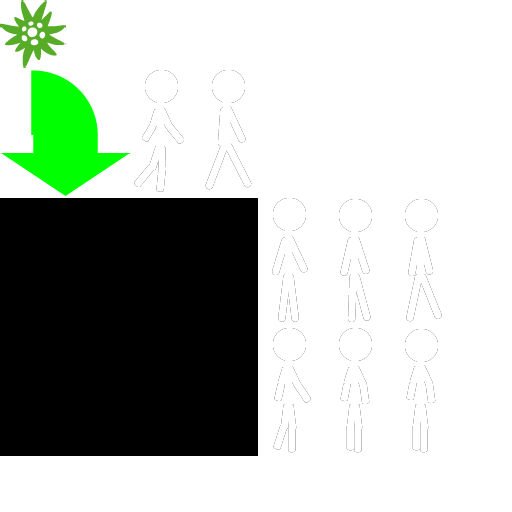
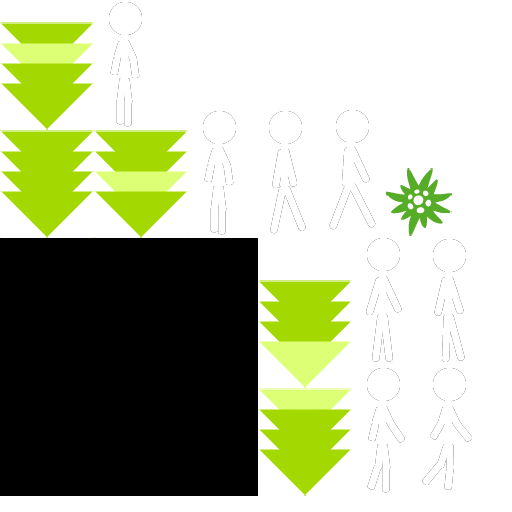
Animated decorations plus map tweaks

diff --git a/core/src/de/johannesbade/kletterhoelle/Dekoration.java b/core/src/de/johannesbade/kletterhoelle/Dekoration.java
@@ -1,21 +1,34 @@
 package de.johannesbade.kletterhoelle;
 
+import com.badlogic.gdx.graphics.g2d.Animation;
 import com.badlogic.gdx.graphics.g2d.Batch;
 import com.badlogic.gdx.graphics.g2d.Sprite;
+import com.badlogic.gdx.graphics.g2d.TextureAtlas.AtlasRegion;
 import com.badlogic.gdx.scenes.scene2d.Actor;
+import com.badlogic.gdx.utils.Array;
 
 public class Dekoration extends Actor {
 	
 	private Sprite sprite = null;
-	public Dekoration(GameContext context, String region, float x, float y) {
+	
+	private Animation animation = null;
+	private GameContext context;
+	
+	public Dekoration(GameContext context, String region, float x, float y, float animDelay) {
 		sprite = new Sprite(context.getAtlas().findRegion(region));
 		sprite.setPosition(x, y);
 		setPosition(x, y);
+		this.context = context;
+		Array<AtlasRegion> frames = context.getAtlas().findRegions(region);
+		animation = new Animation(animDelay, frames);
+		animation.setPlayMode(Animation.PlayMode.LOOP);
+		
 	}
 	
 	@Override
 	public void draw(Batch batch, float parentAlpha) {
 		super.draw(batch, parentAlpha);
+		sprite.setRegion(animation.getKeyFrame(context.getTimeElapsed()));
 		sprite.draw(batch);
 	}
 

diff --git a/core/src/de/johannesbade/kletterhoelle/KletterHoelle.java b/core/src/de/johannesbade/kletterhoelle/KletterHoelle.java
@@ -111,12 +111,12 @@ public class KletterHoelle extends ApplicationAdapter implements InputProcessor,
 		
 		//Zusaetzliche Plattformen
 		context.getStage().addActor(new Fenster(context,280, 766,200,820));
-		context.getStage().addActor(new MovingPlatform(context,680, 120,111,220,2, 1));
+		context.getStage().addActor(new MovingPlatform(context,680, 120,111,220,1f, 1));
 		context.getStage().addActor(new MovingPlatform(context,990, 120,150,220, 2, 0));
 		
-		context.getStage().addActor(new MovingPlatform(context,2350, 300,80,120,3, 2));
+		context.getStage().addActor(new MovingPlatform(context,2350, 300,80,60,3, 2));
 		
-		context.getStage().addActor(new Dekoration(context, "pfeilrunter", 276+940, 1000));
+		context.getStage().addActor(new Dekoration(context, "pfeilrunter", 276+940+16, 1000, .25f));
 		
 		camera = new OrthographicCamera(Gdx.graphics.getWidth(), Gdx.graphics.getHeight());
 		camera.setToOrtho(false, Gdx.graphics.getWidth(),Gdx.graphics.getHeight());

diff --git a/desktop/src/de/johannesbade/kletterhoelle/desktop/DesktopLauncher.java b/desktop/src/de/johannesbade/kletterhoelle/desktop/DesktopLauncher.java
@@ -10,7 +10,7 @@ public class DesktopLauncher {
 		LwjglApplicationConfiguration config = new LwjglApplicationConfiguration();
 		config.width = 1920;
 		config.height = 1080;
-		config.fullscreen = true;
+		//config.fullscreen = true;
 		
 		new LwjglApplication(new KletterHoelle(), config);
 	}
